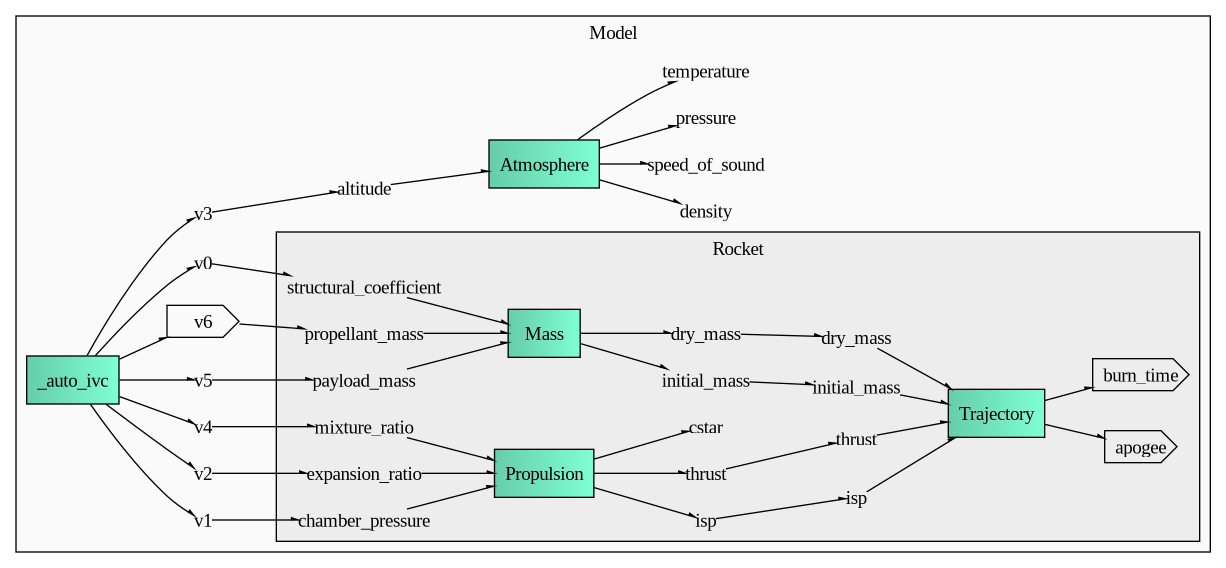
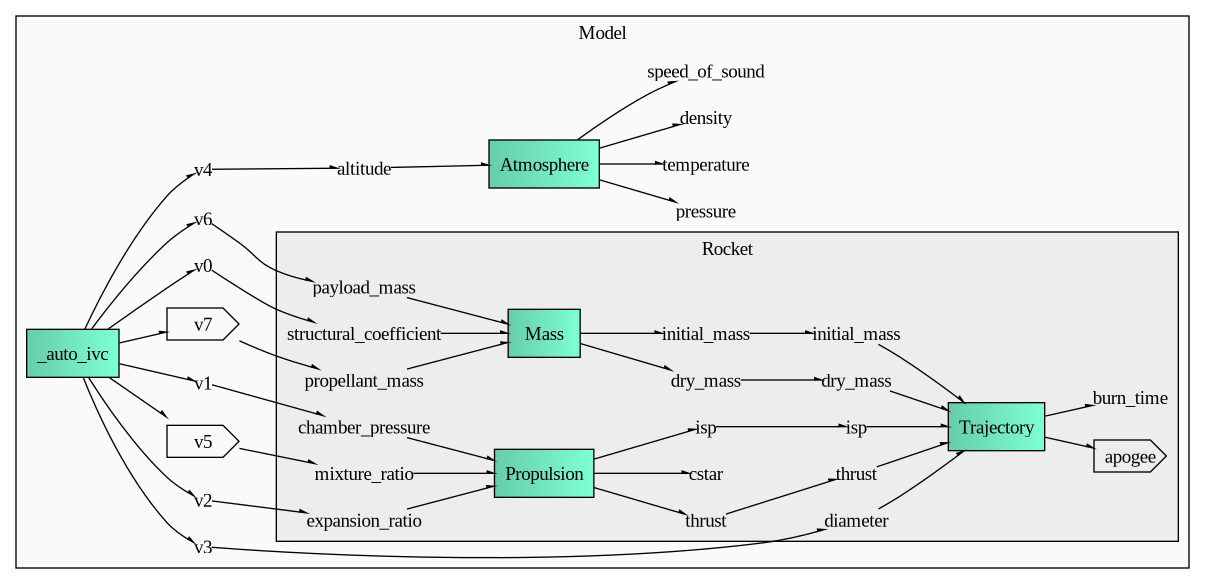
Added drag model and adjusted the solver accordingly

diff --git a/rocket-solver/packages/BEARS_Rocket/comp_traj.py b/rocket-solver/packages/BEARS_Rocket/comp_traj.py
@@ -6,11 +6,41 @@ from scipy.integrate   import solve_ivp
 from scipy.interpolate import interp1d
 from scipy.constants   import g
 from openmdao.api      import ExplicitComponent
+
+from ..BEARS_Atmo import BEARS_Atm
 # endregion
 
 # region Ballistic functions
+def F_d(v: float, diam: float, rho: float, a: float) -> float:
+	area = np.pi * (diam / 2.0)**2.0
+	mach = abs(v) / a
+
+	# TODO: Better-founded C_d model, currently AI-generated
+	if mach < 0.8:
+		# Subsonic: skin friction and base drag
+		cd = 0.40
+	elif mach < 1.2:
+		# Transonic: drag increase due to shock wave
+		# Linear interpolation (mach = 0.8, cd = 0.4) -- (mach = 1.2, cd = 0.8)
+		cd = 0.4 + (mach - 0.8) * ( (0.8 - 0.4) / (1.2 - 0.8) )
+	elif mach < 2.0:
+		# Supersonic: drag decreases as Mach number increases
+		# Linear interpolation (1.2, 0.8) -- (2.0, 0.6)
+		cd = 0.4 + (mach - 1.2) * ( (0.8 - 0.6) / (2.0 - 1.2) )
+	else:
+		# High supersonic
+		cd = 0.6
+
+	drag = 0.5 * rho * v**2 * cd * area
+	return drag
+
 def ballistic_apogee(
-	thrust: float, isp: float, m_i: float, m_dry: float
+	thrust: float,
+	isp: float,
+	m_i: float,
+	m_dry: float,
+	diam: float,
+	atm: BEARS_Atm
 ) -> tuple[float, float]:
 	"""
 	Simple ballistic apogee calculator.
@@ -25,15 +55,19 @@ def ballistic_apogee(
 		h, v = y
 		m = m_i - mdot * t
 
+		_, _, rho, a = atm(h)
+
 		dh_dt = v
-		dv_dt = (thrust / m) - g
+		dv_dt = (thrust - F_d(v, diam, rho, a)) / m - g
 		return [dh_dt, dv_dt]
 
 	def dynamics_coast(t, y):
 		h, v = y
 
+		_, _, rho, a = atm(h)
+
 		dh_dt = v
-		dv_dt = -g
+		dv_dt = -F_d(v, diam, rho, a) / m_dry - g 
 		return [dh_dt, dv_dt]
 
 	# A SciPy integration event that captures the moment when velocity reaches 0
@@ -121,6 +155,9 @@ def ballistic_apogee_var(
 
 class TrajectoryComponent(ExplicitComponent):
 
+	def initialize(self):
+		self.options.declare("atm", types=BEARS_Atm)
+
 	def setup(self):
 		# t = np.linspace(0, 10, 1000)
 		# thrust_profile = np.where((t < 5.0), 1200, 0)
@@ -130,10 +167,14 @@ class TrajectoryComponent(ExplicitComponent):
 		# self.add_input('thrust_profile', val=thrust_profile, units='N')
 		# self.add_input('isp_profile',    val=isp_profile,    units='s')
 
+		# Propulsion profile
 		self.add_input("thrust",       val=1000.0, units="N")
 		self.add_input("isp",          val=200.0,  units="s")
-		self.add_input("initial_mass", val=15.0,   units="kg")
-		self.add_input("dry_mass",     val=5.0,    units="kg")
+
+		# Rocket parameters
+		self.add_input("initial_mass", val=15.0, units="kg")
+		self.add_input("dry_mass",     val=5.0,  units="kg")
+		self.add_input("diameter",     val=0.5,  units="m")
 
 		self.add_output("apogee",    val=3000.0, units="m")
 		self.add_output("burn_time", val=3.0,    units="s")
@@ -142,12 +183,15 @@ class TrajectoryComponent(ExplicitComponent):
 		self.declare_partials("*", "*", method="fd")
 
 	def compute(self, inputs, outputs):
+		atm = self.options["atm"]
+
 		thrust = inputs["thrust"][0]
 		isp    = inputs["isp"][0]
 		m_i    = inputs["initial_mass"][0]
 		m_dry  = inputs["dry_mass"][0]
+		diam   = inputs["diameter"][0]
 
-		burn_time, apogee = ballistic_apogee(thrust, isp, m_i, m_dry)
+		burn_time, apogee = ballistic_apogee(thrust, isp, m_i, m_dry, diam, atm)
 
 		outputs["burn_time"] = burn_time
 		outputs["apogee"]    = apogee

diff --git a/rocket-solver/solver.py b/rocket-solver/solver.py
@@ -25,7 +25,7 @@ from packages.BEARS_Rocket import ModelGroup
 # region Main
 def main():
 
-	opt_mr = False
+	opt_mr = True
 
 	# region Inputs
 	with open("inputs/reactants.json", "r") as retrieved:
@@ -48,10 +48,11 @@ def main():
 
 	# Design variables
 	if opt_mr: prob.model.add_design_var("mixture_ratio", lower=1.0, upper=10.0, ref=2.0)
-	prob.model.add_design_var("propellant_mass", lower=1.0, upper=1000.0, ref=30.0)
+	prob.model.add_design_var("propellant_mass", lower=1.0, upper=100.0, ref=30.0)
 
 	# Constraints
-	prob.model.add_constraint("burn_time", lower=1.0, upper=5.0)
+	#prob.model.add_constraint("burn_time", lower=1.0, upper=3.0)
+	#prob.model.add_constraint("burn_time", equals=5.0)
 	prob.model.add_constraint("apogee", equals=3100.0, ref=3100.0)
 
 	# Objectives
@@ -62,15 +63,17 @@ def main():
 	# Dynamic variables
 	prob.set_val("payload_mass", 1.0)
 
-	prob.set_val("Rocket.Mass.structural_coefficient", val=(0.01 * 30))  # percentages
+	prob.set_val("Rocket.Mass.structural_coefficient", 0.01 * 20)  # percentages
+
+	prob.set_val("Rocket.Trajectory.diameter", 0.4)
 
 	prob.set_val("Rocket.Propulsion.chamber_pressure", 35.0)
 	prob.set_val("Rocket.Propulsion.expansion_ratio", 40.0)
-	prob.set_val("Rocket.Propulsion.thrust", 1000.0)
+	prob.set_val("Rocket.Propulsion.thrust", 4000.0)
 
 	# Optimization initial values
 	prob.set_val("mixture_ratio", 6.0)
-	prob.set_val("propellant_mass", 10.0)
+	prob.set_val("propellant_mass", 30.0)
 
 	prob.run_driver()
 
@@ -84,6 +87,7 @@ def main():
 	print("\nResults:")
 	print(f"t_burn:\t{prob.get_val('burn_time')[0]} s")
 	print(f"h_max:\t{prob.get_val('apogee')[0]} m")
+	print(f"Isp:\t{prob.get_val('Rocket.Propulsion.isp')[0]} s")
 
 	viewer = GraphViewer(prob.model)
 	for graph_type in ["dataflow", "tree", "cycle"]:

diff --git a/rocket-solver/packages/BEARS_Rocket/group_rocket.py b/rocket-solver/packages/BEARS_Rocket/group_rocket.py
@@ -2,6 +2,8 @@
 from openmdao.api      import Group
 from rocketcea.cea_obj import CEA_Obj
 
+from ..BEARS_Atmo import BEARS_Atm
+
 from .comp_cea  import ChemComponent
 from .comp_mass import MassComponent
 from .comp_traj import TrajectoryComponent
@@ -11,9 +13,11 @@ class RocketGroup(Group):
 
 	def initialize(self):
 		self.options.declare("cea", types=CEA_Obj)
+		self.options.declare("atm", types=BEARS_Atm)
 
 	def setup(self):
 		cea = self.options["cea"]
+		atm = self.options["atm"]
 
 		# region Subsystems
 		self.add_subsystem(
@@ -30,7 +34,8 @@ class RocketGroup(Group):
 
 		self.add_subsystem(
 			"Trajectory",
-			TrajectoryComponent(),
+			TrajectoryComponent(atm=atm),
+			promotes_inputs=["diameter"],
 			promotes_outputs=["burn_time", "apogee"],
 		)
 		# endregion

diff --git a/rocket-solver/packages/BEARS_Rocket/comp_atmo.py b/rocket-solver/packages/BEARS_Rocket/comp_atmo.py
@@ -21,9 +21,9 @@ class AtmoComponent(ExplicitComponent):
 		self.declare_partials("*", "altitude", method="fd")
 
 	def compute(self, inputs, outputs):
-		h = inputs["altitude"][0]
-
 		atm = self.options["atm"]
+
+		h = inputs["altitude"][0]
 
 		T, P, rho, a = atm(h)
 

diff --git a/rocket-solver/packages/BEARS_Rocket/group_model.py b/rocket-solver/packages/BEARS_Rocket/group_model.py
@@ -28,7 +28,7 @@ class ModelGroup(Group):
 
 		self.add_subsystem(
 			"Rocket",
-			RocketGroup(cea=cea),
+			RocketGroup(cea=cea, atm=atm),
 			promotes_inputs=[
 				"propellant_mass", "payload_mass", "mixture_ratio"
 			],

diff --git a/rocket-solver/README.md b/rocket-solver/README.md
@@ -11,7 +11,7 @@ In descending order of importance:
 
     - [x] Implement an atmospheric model
 
-    - [ ] Implement a drag model
+    - [x] Implement a drag model
 
   - [ ] Refine the propulsion class/component to include subgroups within the
     propulsion assembly
@@ -102,9 +102,11 @@ Model components in detail:
 This structure is in very early development and is subject to drastic
 change. This table will evolve as sub-assemblies are refined
 
-## Setting up the environment
+## Running the program
 
-Install the following required Python packages:
+### Setting up the environment
+
+The following Python packages are required:
 
 ```bash
 openmdao
@@ -116,7 +118,7 @@ pydot
 graphviz
 ```
 
-Ininitalize a Python virtual environment:
+To initialize a Python virtual environment and install the required packages:
 
 ```bash
 python -m venv env
@@ -130,6 +132,15 @@ pip install .
 
 (You may need to install `graphviz` on your system, I haven't tested if it works
 with plain Python)
+
+### Running the solver
+
+`solver.py` is the main entry point:
+
+```bash
+source env/bin/activate
+./solver.py # or python3 solver.py on Windows
+```
 
 <a name="rocketcea-note"></a>
 **Note:** When the program is run, RocketCEA will create some runtime
